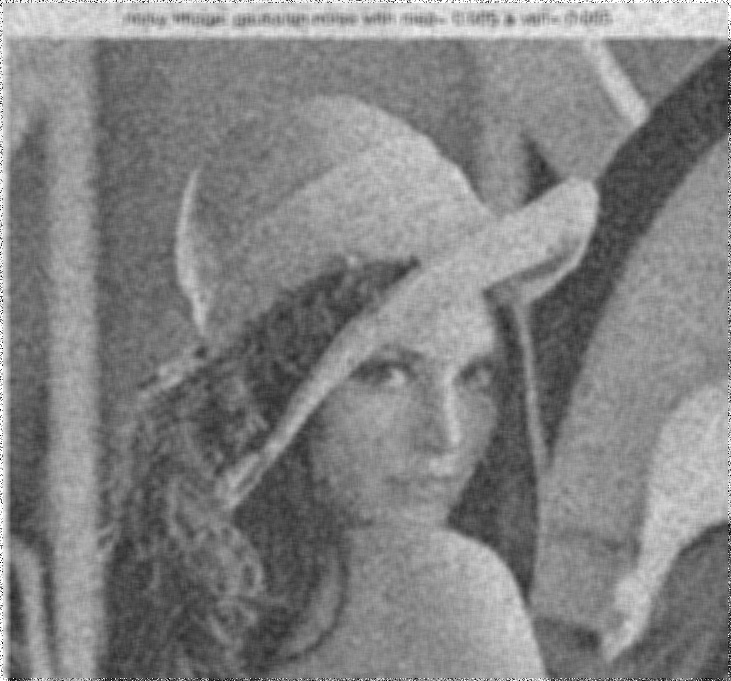
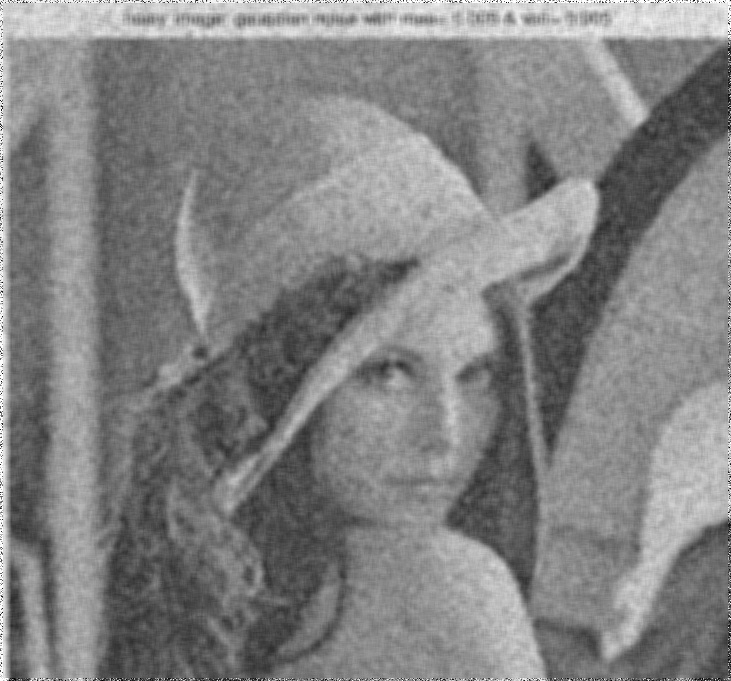
done

diff --git a/app/templates/index.html b/app/templates/index.html
@@ -50,13 +50,26 @@
         <figcaption class="figure-caption text-right">Image Noise Added</figcaption>
       </figure>
     </div>
+
+    <div class="col-4">
+      <form action="/setAllFilter" method="POST">
+        <p style="width: auto; height: auto">
+          <input type="number" class="form-control" name="kernel_size" placeholder="input kernel size"> 
+          <input
+            style="margin-top: 6px;"
+            class="btn btn-success" type="submit" value="Filter All">
+          </p>
+      </form>
+    </div>
+
+
   </div>
   <div class="row">
     <div class="col-4">
       <label>Median</label>
       <form action="/setMedian" method="POST">
         <p style="display: flex;">
-          <input type="number" class="form-control" name="kernel_size" placeholder="input kernel size" required> <input
+          <input type="number" class="form-control" name="kernel_size" placeholder="input kernel size" > <input
             class="btn btn-light" type="submit" value="filter">
         </p>
       </form>
@@ -73,7 +86,7 @@
       <label>Mean</label>
       <form action="/setMean" method="POST">
         <p style="display: flex;">
-          <input type="number" class="form-control" name="kernel_size" placeholder="input kernel size" disabled> <input
+          <input type="number" class="form-control" name="kernel_size" placeholder="input kernel size"> <input
             class="btn btn-light" type="submit" value="filter">
         </p>
       </form>
@@ -90,7 +103,7 @@
       <label>Min</label>
       <form action="/setMin" method="POST">
         <p style="display: flex;">
-          <input type="number" class="form-control" name="kernel_size" placeholder="input kernel size" disabled> <input
+          <input type="number" class="form-control" name="kernel_size" placeholder="input kernel size"> <input
             class="btn btn-light" type="submit" value="filter">
         </p>
       </form>

diff --git a/app/routes.py b/app/routes.py
@@ -34,7 +34,7 @@ def upload_image():
         
             fileNameSplit = image.filename.split('.')
             fileType = fileNameSplit[len(fileNameSplit)-1]
-            image.filename = "original_image." + "jpg"
+            image.filename = "original_image.jpg"
             imagePath = image.filename
             image.save(os.path.join(app.config["IMAGE_UPLOADS"], image.filename))
 
@@ -60,6 +60,7 @@ def getImageOrigin(imageName):
             app.config["IMAGE_UPLOADS"]
             ),imageName
     )
+    
 
 @app.route("/bootstrapmin/")
 def bootstrapmin():
@@ -75,48 +76,82 @@ def setMedian():
 
     imagePath = checkImageOrigin()
 
-    meanImage = checkImageMean()
-    minImage = checkImageMin()
+    kernelSize = 3
 
-    kernelSize = request.form.get('kernel_size')
+    if ((request.form.get('kernel_size') != None ) and ((request.form.get('kernel_size') != "" )
+        and ()
+    )) :
+        kernelSize = request.form.get('kernel_size')
+    
     median.main(kernelSize)
+
     psnr = median.psnrResult()
-    return render_template("index.html", imagePath = imagePath, 
-        medianImage="result_median."+fileType, psnr = psnr,
-        meanImage = meanImage, minImage = minImage
-        )
+    return render_template("index.html", imagePath = "original_image.jpg", 
+        medianImage="result_median."+fileType, psnr = psnr)
 
 @app.route("/setMean", methods=["GET", "POST"])
 def setMean():
     imagePath = checkImageOrigin()
 
-    medianImage = checkImageMedian()
-    minImage = checkImageMin()
+    kernelSize = 3
 
-    print(minImage)
+    if ((request.form.get('kernel_size') != None ) and ((request.form.get('kernel_size') != "" )
+        and ()
+    )) :
+        kernelSize = request.form.get('kernel_size')
 
     mean = FilterMeanSize(app.config['BASE_URL'])
-    mean.main()
+    mean.main(kernelSize)
+
     psnr = mean.psnrResult()
-    return render_template("index.html", imagePath = imagePath, 
-        meanImage="result_mean."+fileType, psnr2 = psnr,
-        medianImage = medianImage, minImage = minImage
+    return render_template("index.html", imagePath = "original_image.jpg", 
+        meanImage="result_mean."+fileType, psnr2 = psnr
         )
 
 @app.route("/setMin", methods=["GET", "POST"])
 def setMin():
     imagePath = checkImageOrigin()
-    min = FilterMinSize(app.config['BASE_URL'])
-    min.main()
+    kernelSize = 3
 
-    medianImage = checkImageMedian()
-    meanImage = checkImageMean()
+    if ((request.form.get('kernel_size') != None ) and ((request.form.get('kernel_size') != "" )
+        and ()
+    )) :
+        kernelSize = request.form.get('kernel_size')
+    
+    min = FilterMinSize(app.config['BASE_URL'])
+    min.main(kernelSize)
 
     psnr = min.psnrResult()
-    return render_template("index.html", imagePath = imagePath, 
-        minImage="result_min."+fileType, psnr3 = psnr,
-        medianImage = medianImage, meanImage = meanImage
+    return render_template("index.html", imagePath = "original_image.jpg", 
+        minImage="result_min."+fileType, psnr3 = psnr
         )
+
+@app.route("/setAllFilter", methods=["GET", "POST"])
+def setAllFilter():
+    kernelSize = 3
+
+    if ((request.form.get('kernel_size') != None ) and ((request.form.get('kernel_size') != "" )
+        and ()
+    )) :
+        kernelSize = request.form.get('kernel_size')
+    
+    median = FilterMedianSize(app.config['BASE_URL'])
+    mean = FilterMeanSize(app.config['BASE_URL'])
+    min = FilterMinSize(app.config['BASE_URL'])
+    
+    median.main(kernelSize)
+    mean.main()
+    min.main()
+
+    psnr1 = median.psnrResult()
+    psnr2 = mean.psnrResult()
+    psnr3 = min.psnrResult()
+
+    return render_template("index.html", imagePath = "original_image.jpg",
+        medianImage="result_median."+fileType, psnr = psnr1,
+        meanImage="result_mean."+fileType, psnr2 = psnr2,
+        minImage="result_min."+fileType, psnr3 = psnr3,
+    )
 
 
 @app.route("/getImageMedian/")

diff --git a/FilterMeanSize.py b/FilterMeanSize.py
@@ -42,13 +42,13 @@ class FilterMeanSize:
         psnr_scratch = self.psnr(img_upload, img_result)
         return psnr_scratch
 
-    def main(self):
+    def main(self, filterSize = 3):
         im1_path = self.baseUrl +'imagenoise/test_noise_added.jpg'
         img1 = cv2.imread(im1_path, 0)
 
         #run filter
-        filter_size = 3
-        removed_noise = self.mean_filter(img1, filter_size)
+        # filter_size = 3
+        removed_noise = self.mean_filter(img1, filterSize)
 
         #save image
         im_result_path = self.baseUrl +'imageresults/result_mean.jpg'

diff --git a/FilterMinSize.py b/FilterMinSize.py
@@ -44,13 +44,13 @@ class FilterMinSize:
         psnr_scratch = self.psnr(img_upload, img_result)
         return psnr_scratch
 
-    def main(self):
+    def main(self, filterSize = 3):
         im1_path = self.baseUrl +'imagenoise/test_noise_added.jpg'
         img1 = cv2.imread(im1_path, 0)
 
         #run filter
-        filter_size = 3
-        removed_noise = self.min_filter(img1, filter_size)
+        # filter_size = 3
+        removed_noise = self.min_filter(img1, filterSize)
 
         #save image
         im_result_path = self.baseUrl +'imageresults/result_min.jpg'
